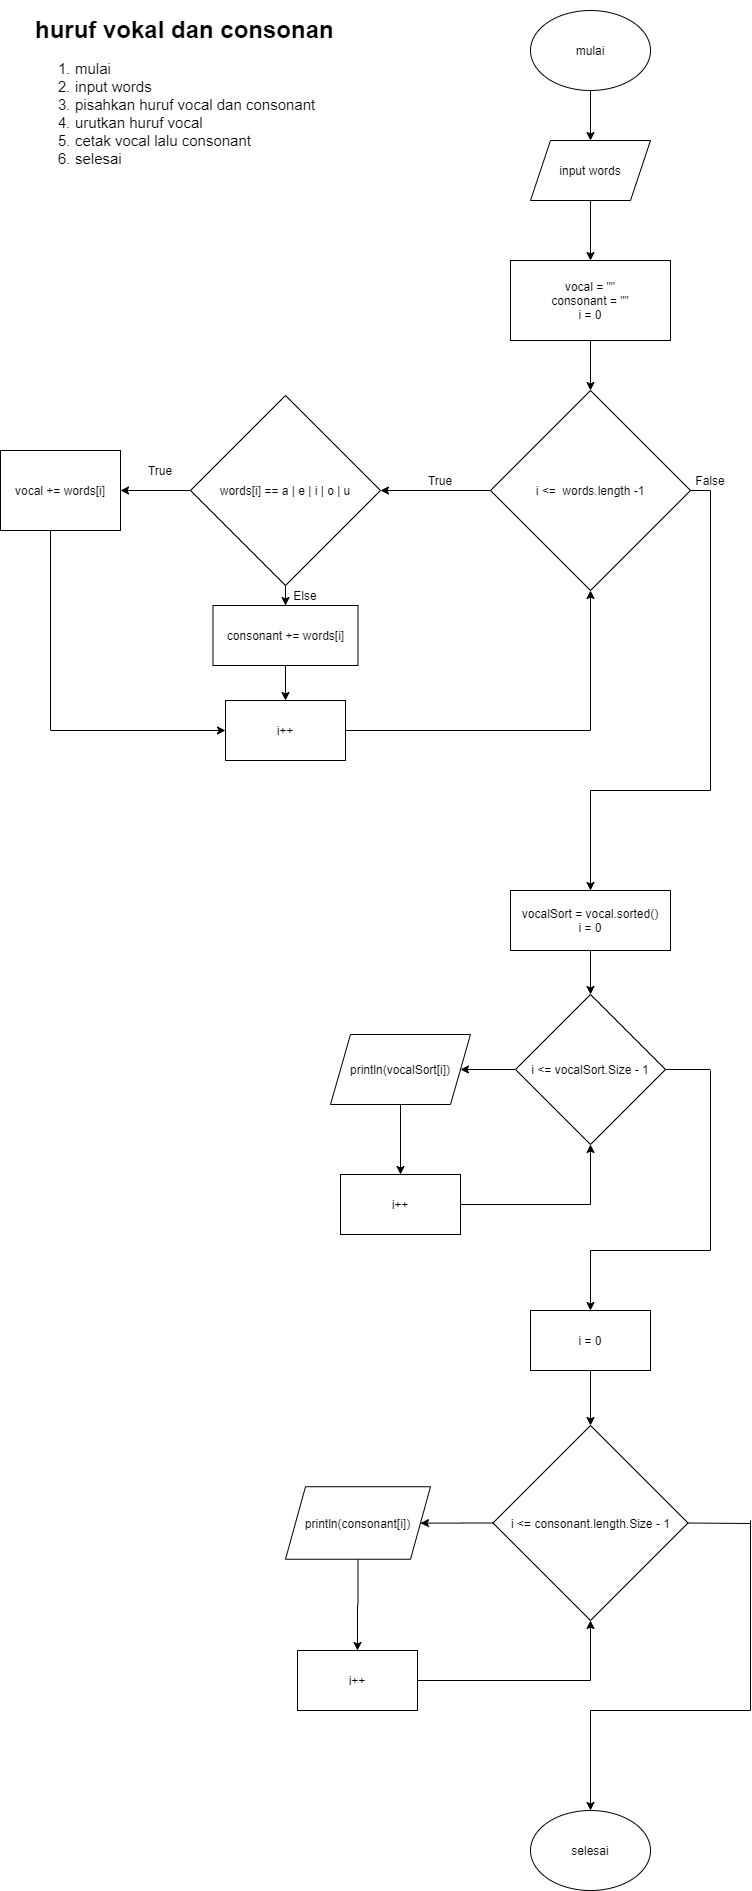
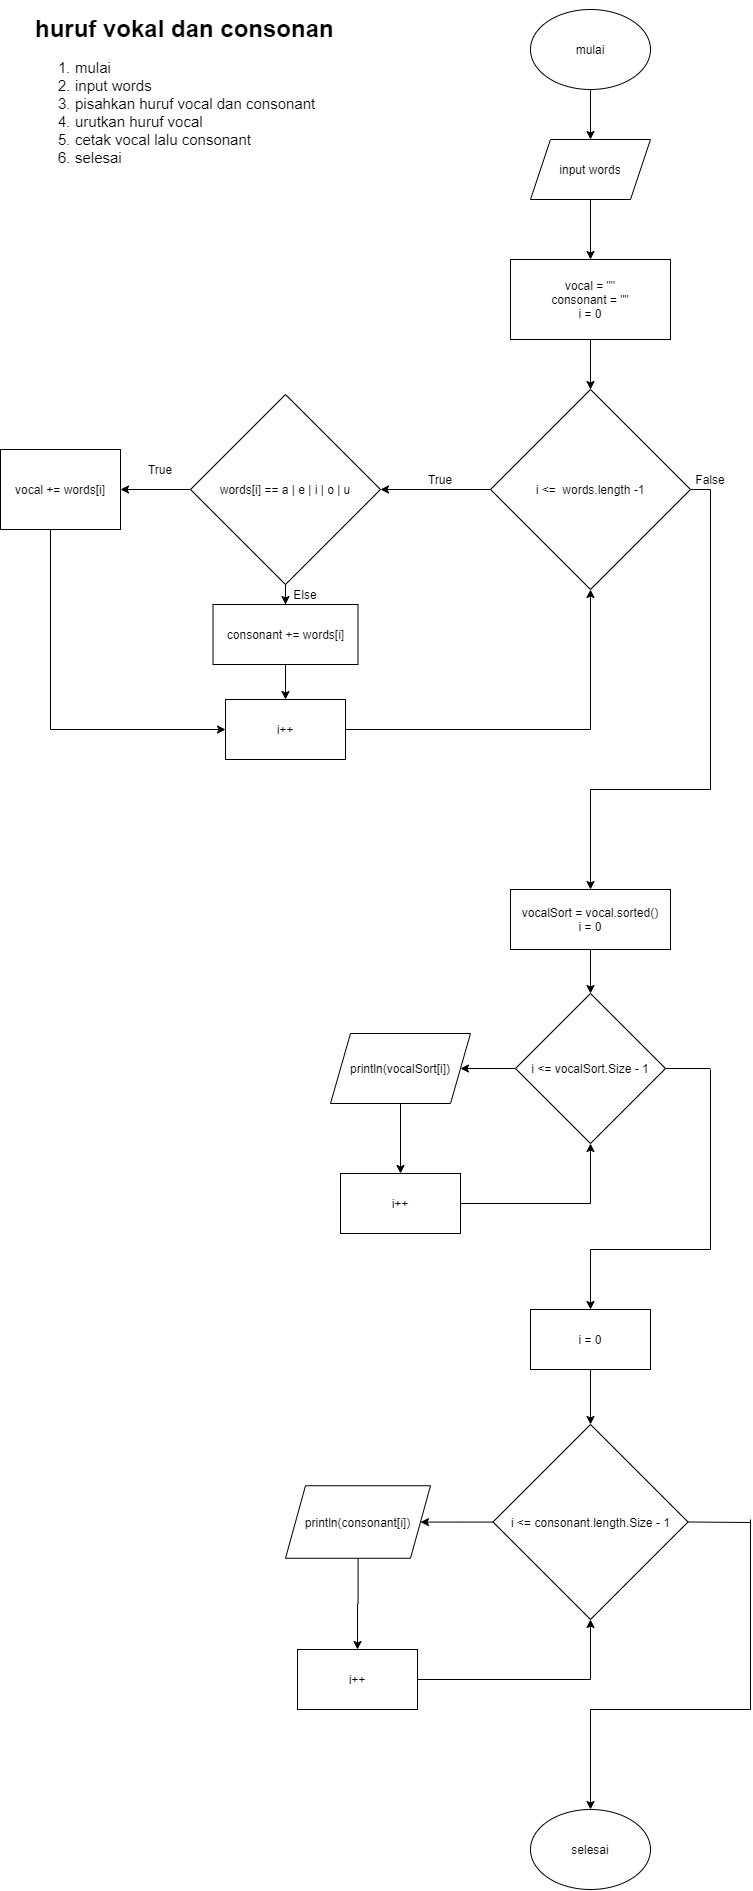
update comment dan flowchart background

diff --git a/code/Nomor10.kt b/code/Nomor10.kt
@@ -7,25 +7,18 @@ fun main() {
 }
 
 fun printWords(words: String) {
-    // variabel penampung vocal dan consonant
     var vocal = ""
-    //    print(vocal)
     var consonant = ""
-    // print(consonant)
 
-    // looping untuk mengambil huruf vocal dan consonant
     for (i in 0..words.length - 1) {
         if (words[i] == 'a' || words[i] == 'e' || words[i] == 'i' || words[i] == 'o' || words[i] == 'u') {
           vocal += words[i]
         } else consonant += words[i]
     }
 
-
-    // sort huruf vokal
     val vocalSort = vocal.toCharArray().sorted()
-//    println(vocalSort)
 
-    // output
+
     for (i in 0..vocalSort.size - 1) {
         println(vocalSort[i].toUpperCase())
     }

diff --git a/code/Nomor13.kt b/code/Nomor13.kt
@@ -5,18 +5,12 @@ fun main() {
 }
 
 fun divideAndSort(angka: Long) {
-//    ubah ke array dengan pemisah 0
     val divide = angka.toString().split("0")
-    println(divide)
 
-//    variabel penampung untuk hasil sort
         var sort = ""
 
-
-//    looping untuk memproses setiap index array untuk di sort
     for (i in 0.. divide.size - 1) {
         sort += divide[i].map { it }.sorted().joinToString("")
     }
         println(sort)
 }
-//5956560159466056

diff --git a/code/Nomor3.kt b/code/Nomor3.kt
@@ -8,8 +8,8 @@ fun main() {
 
 fun checkBilangan(angka: Int) {
     if  (angka % 2 == 0) {
-        println("angka genap")
+        println("$angka adalah angka genap")
     } else {
-        println("angka ganjil")
+        println("$angka adalah angka ganjil")
     }
 }

diff --git a/code/Nomor12.kt b/code/Nomor12.kt
@@ -2,7 +2,8 @@ fun main() {
 
     println("= reverse words =")
     print("masukkan kalimat: ")
-    val teks: Array<String> = readLine()!!.split(" ").toTypedArray()
+    val teks = readLine()!!.split(" ")
+
     var hasil = ""
 
     for (i in teks.size - 1 downTo 0) {

diff --git a/code/Nomor11.kt b/code/Nomor11.kt
@@ -3,7 +3,7 @@ fun main() {
     println("= cek palindrom =")
     print("masukan kata: ")
     var kata = readLine()!!
-    var temp: String = ""
+    var temp = ""
 
     kata = kata.toLowerCase()
     for (i in kata.length - 1 downTo 0 ) {
